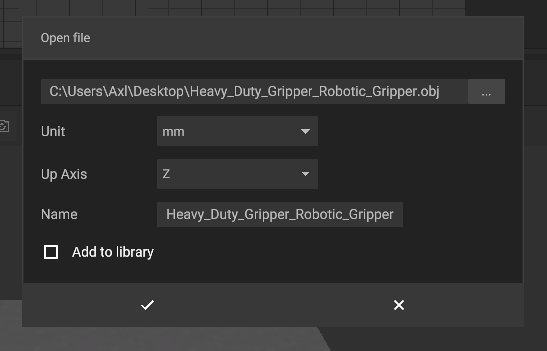
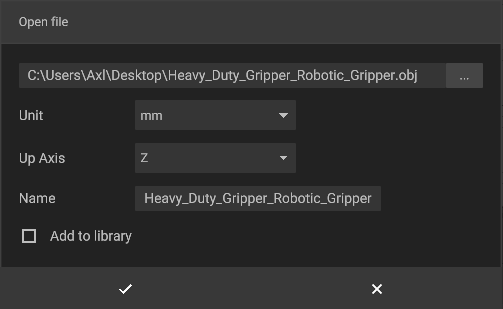
adopted requested changes i.e. correctly cropped image & text changes

diff --git a/home/ivp-planning/advanced-tools/local-library.md b/home/ivp-planning/advanced-tools/local-library.md
@@ -1,6 +1,6 @@
 # Local Library
 
-  You can import your own files/objects from your PC into iVP by using the "Import" option, found under the "File" menu at the top of the application.  
+You can import your own files/objects from your PC into iVP by using the "Import" option, found under the "File" menu at the top of the application.  
 
 ![](../../../.gitbook/assets/3d-import-file.png)
  
@@ -10,24 +10,23 @@ When importing your file, you have the option to change its parameters, as well 
 ![](../../../.gitbook/assets/3d-import-addtolibrary.png)
 
 
-### iVP Library
-Once you have added an item to your library, the folder "iVP Library" will appear at the bottom of the library window.
-From now on every item that you import, and chose to add to your library, can be found inside the "iVP Library" folder.  
+### iVP Library  
 
-The Order of your items can only be changed inside the directory itself, **not** inside iVP Planning.
+Once you have added an item to your library, the folder "iVP Library" will appear at the bottom of the library panel.
+Every item that you import, and chose to add to your library, can be found inside the "iVP Library" folder.  
+
 
 ![](../../../.gitbook/assets/3d-import-library.png)
 
 ### Editing your iVP Library
 
 When hovering an entry in the library, a button with a folder icon will appear. Clicking it will open the respective folder or select the respective file in your file browser  
-![](../../../.gitbook/assets/3d-import-ivplibrary.png)  
-The folders name can be changed at any time.  
-Supported file-types include Images, .plan and 3D-Models.  
-
-
+<img src="../../../.gitbook/assets/3d-import-ivplibrary.png" alt="" data-size="line">
+  
 Your "iVP Library" folder will be created in the default iVP-Directory.  
-You can click on the folder button (highlighted below) next to any object inside the folder to open the directory.
+You can click on the folder button (highlighted below) next to any object inside the folder to open the directory.  
+  
+The folders name can be changed at any time by editing the folder directly in the directory, which  
 
 ![](../../../.gitbook/assets/3d-import-openobject.png)
 
@@ -37,10 +36,11 @@ You can create your own iVP library folder in whichever directory you want to, b
 
 ### Moving Files to and from your personal Library
 
-Instead of importing files via the "Import" option, you also have the option to move your files by placing them into your personal iVP Library.  
+You can also add files to your library by placing them into the library folder as described above. 
 Once your files are inside your library folder, they will show up in iVP Planning, and can be placed from your personal library.
 
 You can freely organize your files inside your library. You can create new folders and move files between them. The library in Planning will resemble the folder structure you create on your computer.  
+Everytime you add a new object to your library, a new folder with the same name as the obect will be created. (e.g. below)
 
 The files that need to be moved are:  
 *Original file  
@@ -49,7 +49,8 @@ _NAME folder*
 
 {% hint style="info" %}  
 Example:  
-To move the Heavy Duty Gripper object, you would need to move every corresponding file to another folder, to assure the object would work correctly.  
+To move the Heavy Duty Gripper object, you would need to move every corresponding file to another folder, to assure the object will work correctly.  
   
-![](../../../.gitbook/assets/3d-import-examplefiles.png)  
+<img src="../../../.gitbook/assets/3d-import-examplefiles.png" alt="" 
+data-size="line">  
 {% endhint %}

diff --git a/home/ivp-planning/advanced-tools/3d-import.md b/home/ivp-planning/advanced-tools/3d-import.md
@@ -4,20 +4,18 @@ To import a 3D file from your personal computer into iVP Planning, simply click 
 
 ![](../../../.gitbook/assets/3d-import-file.png)
 
-Currently iVP-Planning supports the following file types: jpeg, png, .fbx, .obj, .glb, .gltf, .stl, .ply & .3mf.  
 
 {% hint style="info" %}  
 For the best results, we recommend files in the [glTF](https://en.wikipedia.org/wiki/GlTF) format, which have the **.gltf** or **.glb** extension.  
 {% endhint %}
 
-![](3d-import-file.png)
 
 Once you have selected a file, you get the option to define the files Unit of measurement (mm,, cm, dm, m, ft), and the direction of the Up Axis of the object.
 
-Please note that the Up Axis of the imported object/file must match with the Up Axis you have chosen when exporting the object/file, i.E. Z, X or Y axis.
+Please note that the up axis of the imported object/file must match with the Up Axis you have chosen when exporting the object/file.
 
-![](../../../.gitbook/assets/3d-import-openfile.png)  
 
-If you  select the wrong Axis Up option by mistake, you have the option to change it via the properties window on the right side, when highlighting the imported object/file.
+
+You will be able to change these options later via the properties panel, when highlighting the imported object/file.
 
 ![](../../../.gitbook/assets/3d-import-customization.png)
